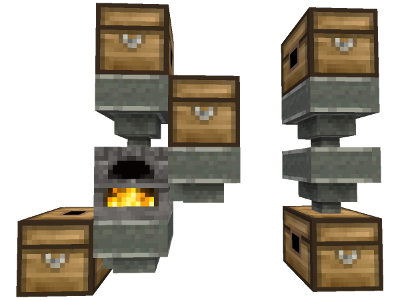
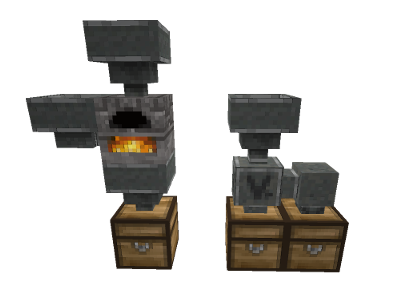
update screenshot and documentation

diff --git a/README.md b/README.md
@@ -1,10 +1,28 @@
-Hopper mod
+## Hoppers, chutes and sorters
 
-Based on jordan4ibanez original mod and optimized by TenPlus1 and FaceDeer
+![Hoppers, chutes and sorters](screenshot.png "Hoppers, chutes and sorters")
 
-Hoppers allow for items dropped on top to be sucked in and transfered to chests/hoppers below and beside the original hopper.  Chests above hopper will have items inside transfered into hopper.  Furnaces above hopper will have output transfered into hopper, furnaces below will have hopper items dropped into source material to be cooked and furnaces to the side will have hopper items copied into fuel slot.
+Based on jordan4ibanez's original hoppers mod, optimized by TenPlus1 and FaceDeer, with chutes and sorters by FaceDeer
 
-Change log:
+Hoppers are nodes that can transfer items to and from the inventories of adjacent nodes. The wide end of a hopper is its "input" end, if there's a chest or other compatible container it will take one item per second into its own internal inventory. It will also draw in items that have been dropped here. The narrow end of the hopper is its "output" end. It will attempt to inject items into a compatible container located at its output end. If there's no compatible container and the hopper's "eject" mode has been enabled it will instead dump the items out into the world.
+
+The location of a hopper relative to a furnace determines which inventory slots the hopper will affect. A hopper directly above a furnace will inject items into the furnace's input slot. A hopper to the furnace's side will inject items into the furnace's fuel slot. A hopper below the furnace will pull items out of the furnace's output slot. Hoppers cannot inject items into inappropriate slots; non-fuel items will not be placed into the furnace's fuel slot and non-cookable items will not be placed into the input slot.
+
+Also included in this mod are a "chute" node and a "sorter" node. These allow for items to be routed over short distances and distributed in sophisticated ways.
+
+A chute simply moves items into adjacent nodes. You'll need to use a hopper or sorter to inject items into it to move along. A screwdriver is a useful tool for getting chutes aimed correctly.
+
+A sorter has two different outputs. Its inventory has a "filter" grid; place items in this grid to set the sorter's filter. Items that match the filter will be sent out the output with the large arrow and other items will be sent out the output with the smaller arrow. A "filter all" option will cause the sorter to attempt to send *all* items in the direction of the large arrow and then if that fails send them in the direction of the smaller arrow. This allows you to have an "overflow" storage should the sorter's primary target fill up, or when used in combination with a selective container (like the furnace's fuel slot, for example) it allows the target inventory to do the filtering for you.
+
+### Advanced settings
+
+This mod has several configurable settings found in the advanced settings menu.
+
+* Hopper texture size: can be set to 16 pixels (matching most standard Minetest node textures) or 32 pixels
+* Single craftable item: When enabled (the default) hoppers are crafted as a single item and then select whether the output has a 90-degree turn to the side based on how you place it. When disabled you can craft straight and bent hoppers as separate items.
+* Eject items button: this can be used to remove the "eject items" button from hoppers, if it is not desired.
+
+### Change log
 
 - 0.1 - Initial release from jordan4ibanez
 - 0.2 - Fixed tool glitch (wear restored by accident)
